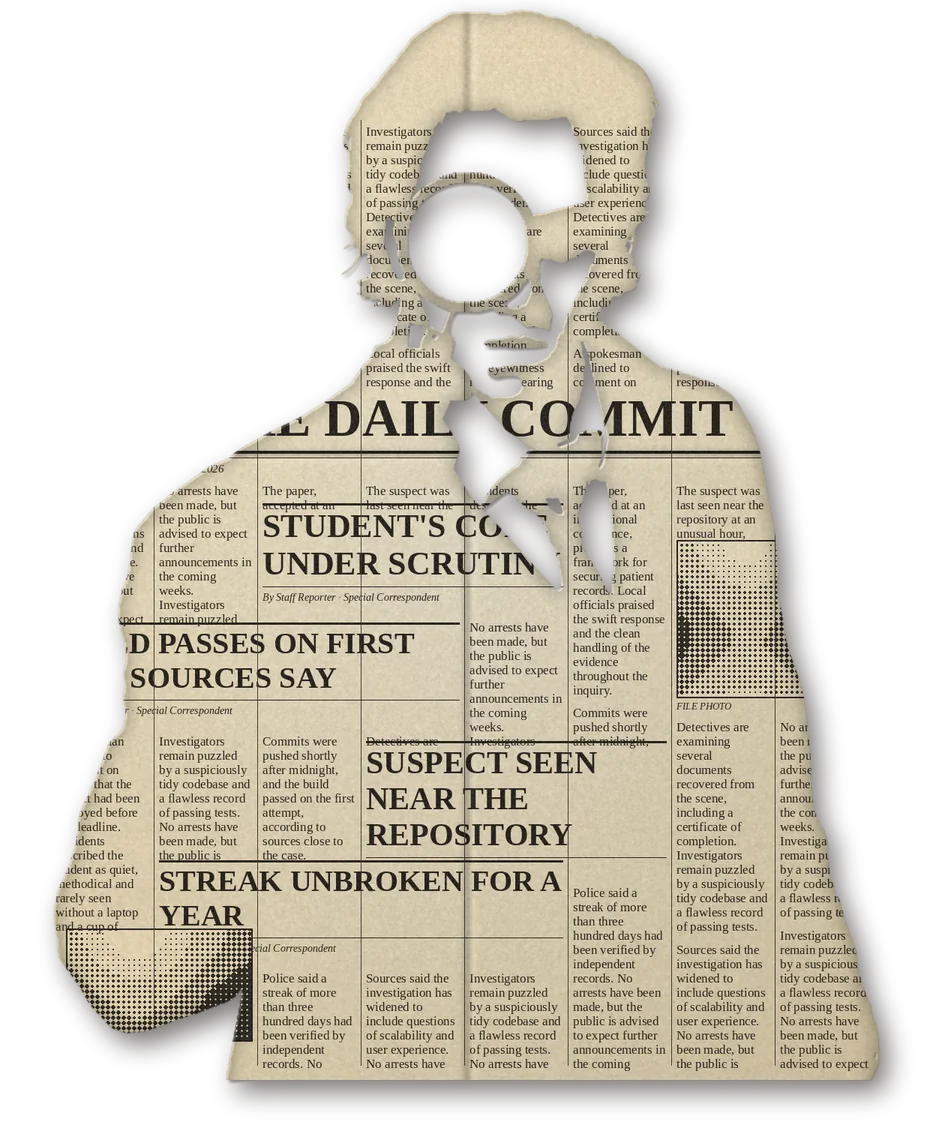
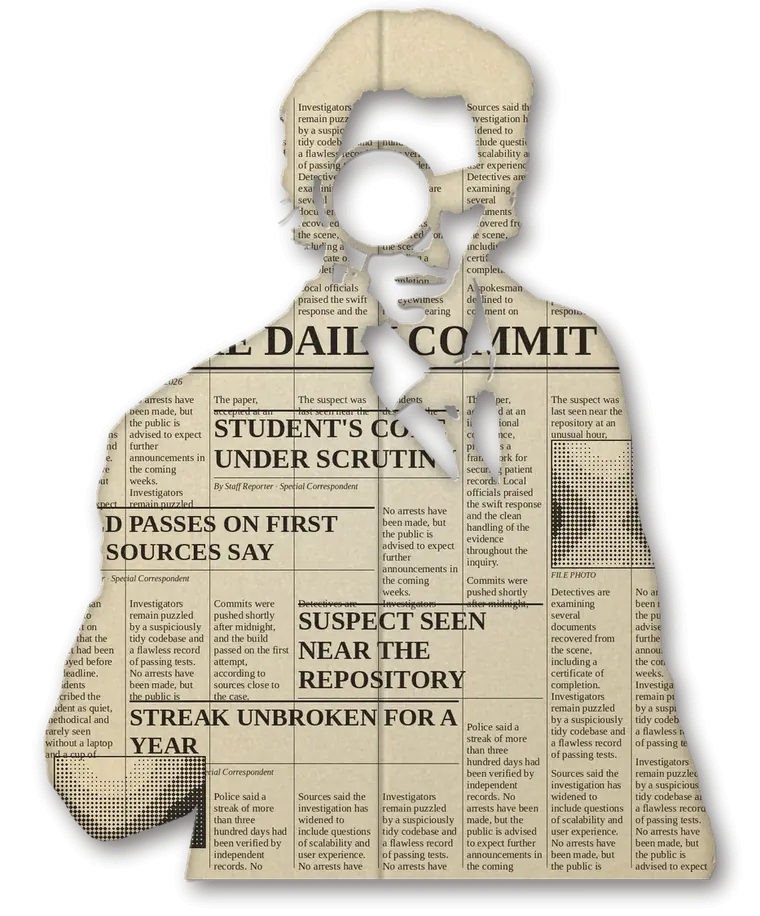
perf(assets): convert textures and images to webp

Changed region(s): [[0.7263, 0.4585, 0.8474, 0.6114], [0.0908, 0.8253, 0.2724, 0.917], [0.0605, 0.8253, 0.0908, 0.8559]]

diff --git a/src/styles/items.css b/src/styles/items.css
@@ -86,11 +86,11 @@ background:linear-gradient(100deg,transparent calc(var(--cx,48%) - 2%),#0006 var
 
 
 /* Realistic pins, tape and paper clips */
-.pin{width:30px;height:30px;margin-left:-15px;top:-14px;border-radius:0;box-shadow:none;background:url(/textures/pin-red.png) center/contain no-repeat}
-.pin.p2{background-image:url(/textures/pin-blue.png)}
-.pin.p3{background-image:url(/textures/pin-yellow.png)}
+.pin{width:30px;height:30px;margin-left:-15px;top:-14px;border-radius:0;box-shadow:none;background:url(/textures/pin-red.webp) center/contain no-repeat}
+.pin.p2{background-image:url(/textures/pin-blue.webp)}
+.pin.p3{background-image:url(/textures/pin-yellow.webp)}
 .pin:before{left:12px;top:16px;width:24px;height:10px}
-.tape{background:url(/textures/tape.png) center/100% 100%;box-shadow:0 1px 2px #0005}
+.tape{background:url(/textures/tape.webp) center/100% 100%;box-shadow:0 1px 2px #0005}
 .pclip{position:absolute;left:16px;top:-20px;width:20px;z-index:3;transform:rotate(-9deg);filter:drop-shadow(2px 3px 2px #0009);pointer-events:none}
 
 /* ---- Performance: fewer composited layers, no per-item filters ---- */

diff --git a/src/assets/index.js b/src/assets/index.js
@@ -1,12 +1,12 @@
 // Every image used by the app, imported so Vite hashes and bundles them.
 import fig from './images/newspaper-detective.webp';
-import cat from './images/suspect-cat.jpg';
-import paperclip from './images/paperclip.png';
-import gh from './images/previews/github-profile.jpg';
-import gst from './images/previews/ghosted-site.jpg';
-import lc from './images/previews/leetcode-profile.jpg';
-import magS from './images/magnifier-line.png';
-import magD from './images/magnifier-prop.png';
-import icon from './images/detective-portrait.png';
+import cat from './images/suspect-cat.webp';
+import paperclip from './images/paperclip.webp';
+import gh from './images/previews/github-profile.webp';
+import gst from './images/previews/ghosted-site.webp';
+import lc from './images/previews/leetcode-profile.webp';
+import magS from './images/magnifier-line.webp';
+import magD from './images/magnifier-prop.webp';
+import icon from './images/detective-portrait.webp';
 
 export const IMG = { fig, cat, paperclip, gh, gst, lc, magS, magD, icon };

diff --git a/src/styles/board.css b/src/styles/board.css
@@ -65,9 +65,12 @@ box-shadow:inset 0 0 70px #000d,inset 0 0 8px #000,0 40px 90px #000,0 0 0 2px #0
 
 
 /* Realistic textures */
-#world{background:radial-gradient(ellipse at 50% 30%,#5a3c2466,transparent 72%),url(/textures/wood-wall.jpg) 0 0/288px 512px,#1a1009;box-shadow:none}
-.stain{width:150px;height:150px;border:0;border-radius:0;filter:none;background:url(/textures/coffee-ring.png) center/contain no-repeat;opacity:.9}
+#world{background:radial-gradient(ellipse at 50% 30%,#5a3c2466,transparent 72%),url(/textures/wood-wall.webp) 0 0/288px 512px,#1a1009;box-shadow:none}
+.stain{width:150px;height:150px;border:0;border-radius:0;filter:none;background:url(/textures/coffee-ring.webp) center/contain no-repeat;opacity:.9}
 
 /* ---- Performance: layer only while moving; drop the per-prop shadow filter ---- */
 #world{will-change:auto;backface-visibility:visible}
 .dc .in,.mgd{filter:none}
+
+/* Red strings are a canvas bitmap now */
+#stringsCanvas{position:absolute;left:0;top:0;width:2200px;height:1500px;pointer-events:none}

diff --git a/src/styles/base.css b/src/styles/base.css
@@ -1,6 +1,6 @@
 /* Design tokens, reset and global element rules */
 :root{--ink:#2a2118;--cr:#e9dfc8;--amber:#e0a458;--red:#b3261e;--dark:#0b0907;--mono:'Special Elite','Courier New',monospace;--cond:'Barlow Condensed','Arial Narrow',sans-serif;color-scheme:dark;
---noise:url(/textures/paper-grain.png)}
+--noise:url(/textures/paper-grain.webp)}
 
 *{box-sizing:border-box;margin:0}
 
@@ -11,9 +11,9 @@ html,body{height:100%;background:var(--dark);color:var(--cr);font-family:var(--m
 button{font:inherit;cursor:pointer}
 
 :root{--mag:url(/cursors/magnifier.png) 23 22,auto;
---cork:url(/textures/cork.jpg)}
+--cork:url(/textures/cork.webp)}
 
-:root{--bk2:url(/textures/brick-orange.jpg)}
+:root{--bk2:url(/textures/brick-orange.webp)}
 
 .dsk{position:absolute;inset:0;border-radius:50%;background:#120c08;border:6px solid #f1e8cf;box-shadow:10px 12px 0 #140a05;overflow:hidden}
 

diff --git a/README.md b/README.md
@@ -66,7 +66,7 @@ src/
 - **Your details:** `src/config/profile.js` (name, email, links).
 - **Evidence content and detective lines:** `src/data/evidence.js`.
 - **Photos and screenshots:** replace files in `src/assets/images/` keeping the same names
-  (`suspect-cat.jpg` for the mugshot, `previews/*.jpg` for hover previews).
+  (`suspect-cat.webp` for the mugshot, `previews/*.webp` for hover previews).
 - **Add a prop to the board:** add a row to `src/data/decor.js` and, for a new type, a drawing in `src/visuals/props.js`.
 
 ## Deploy to GitHub Pages
